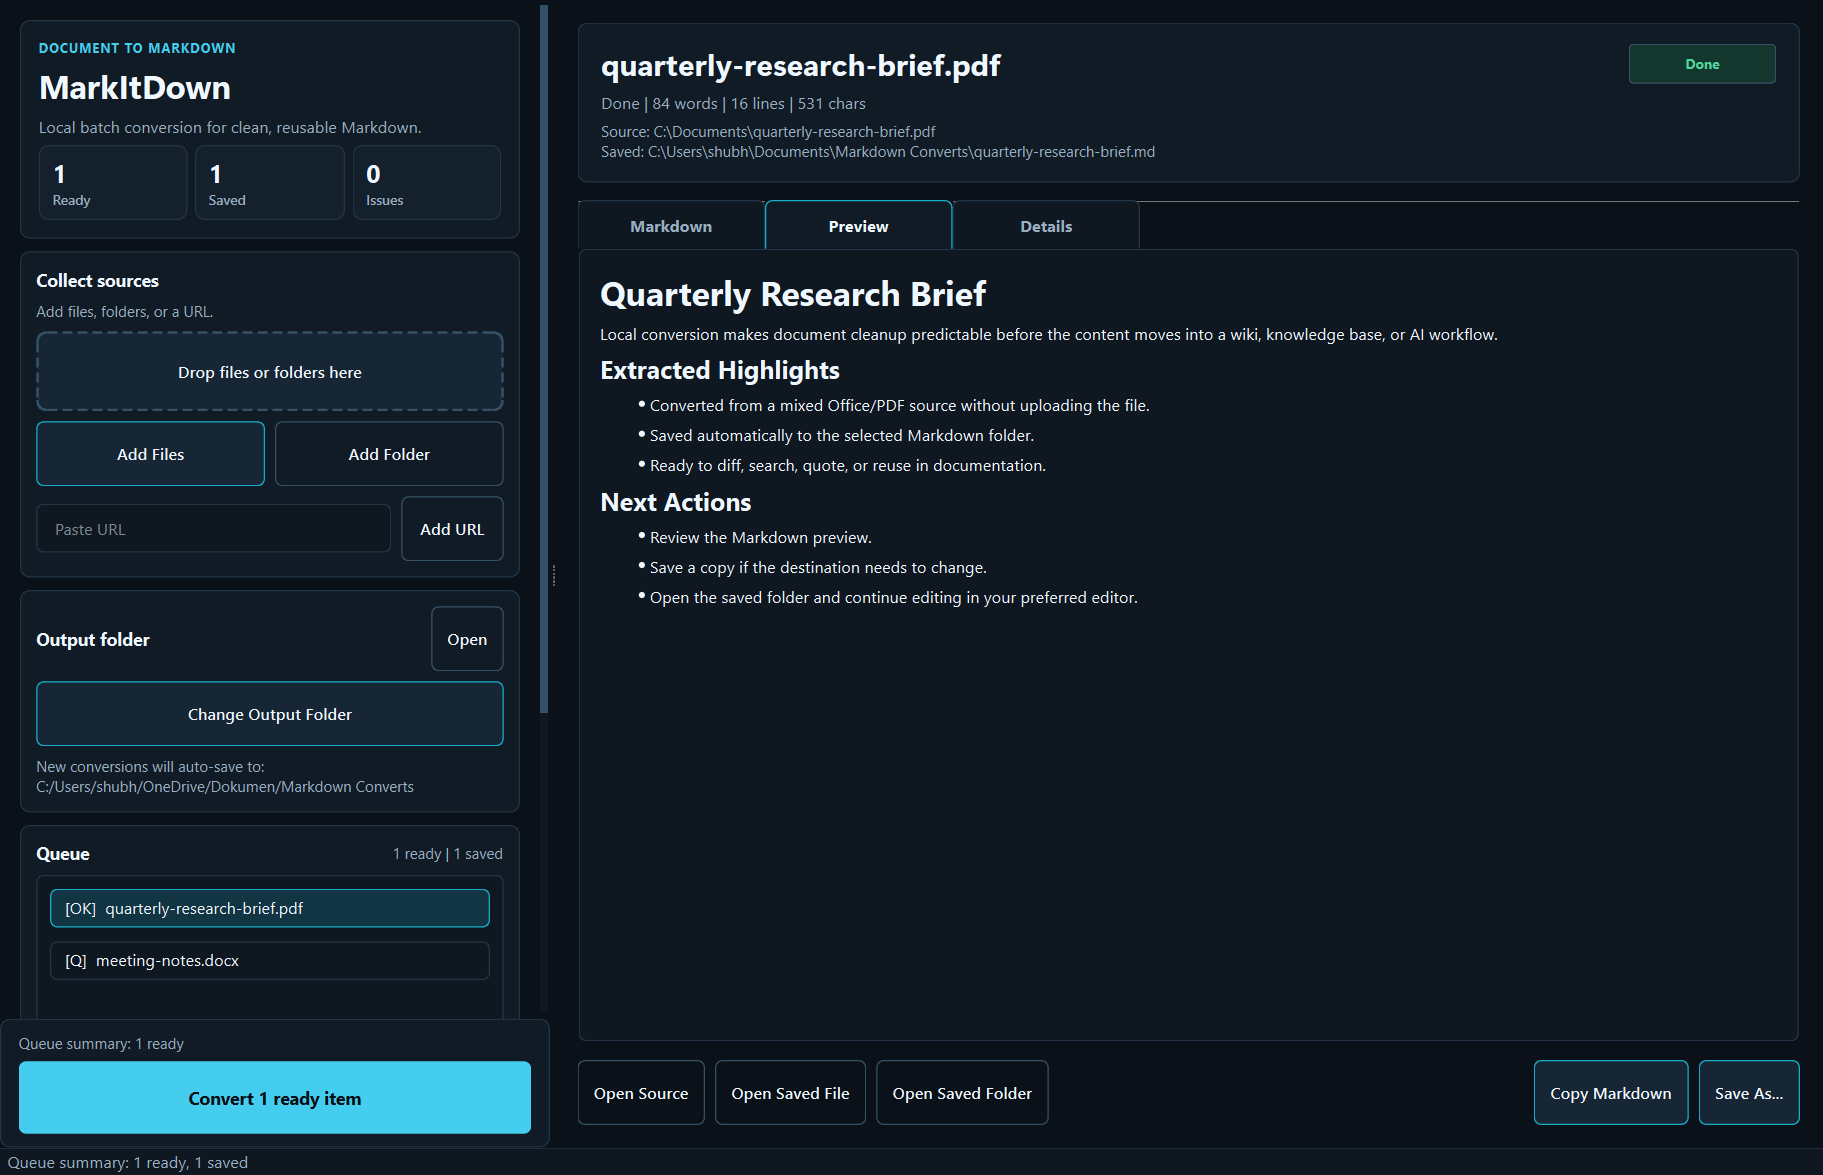
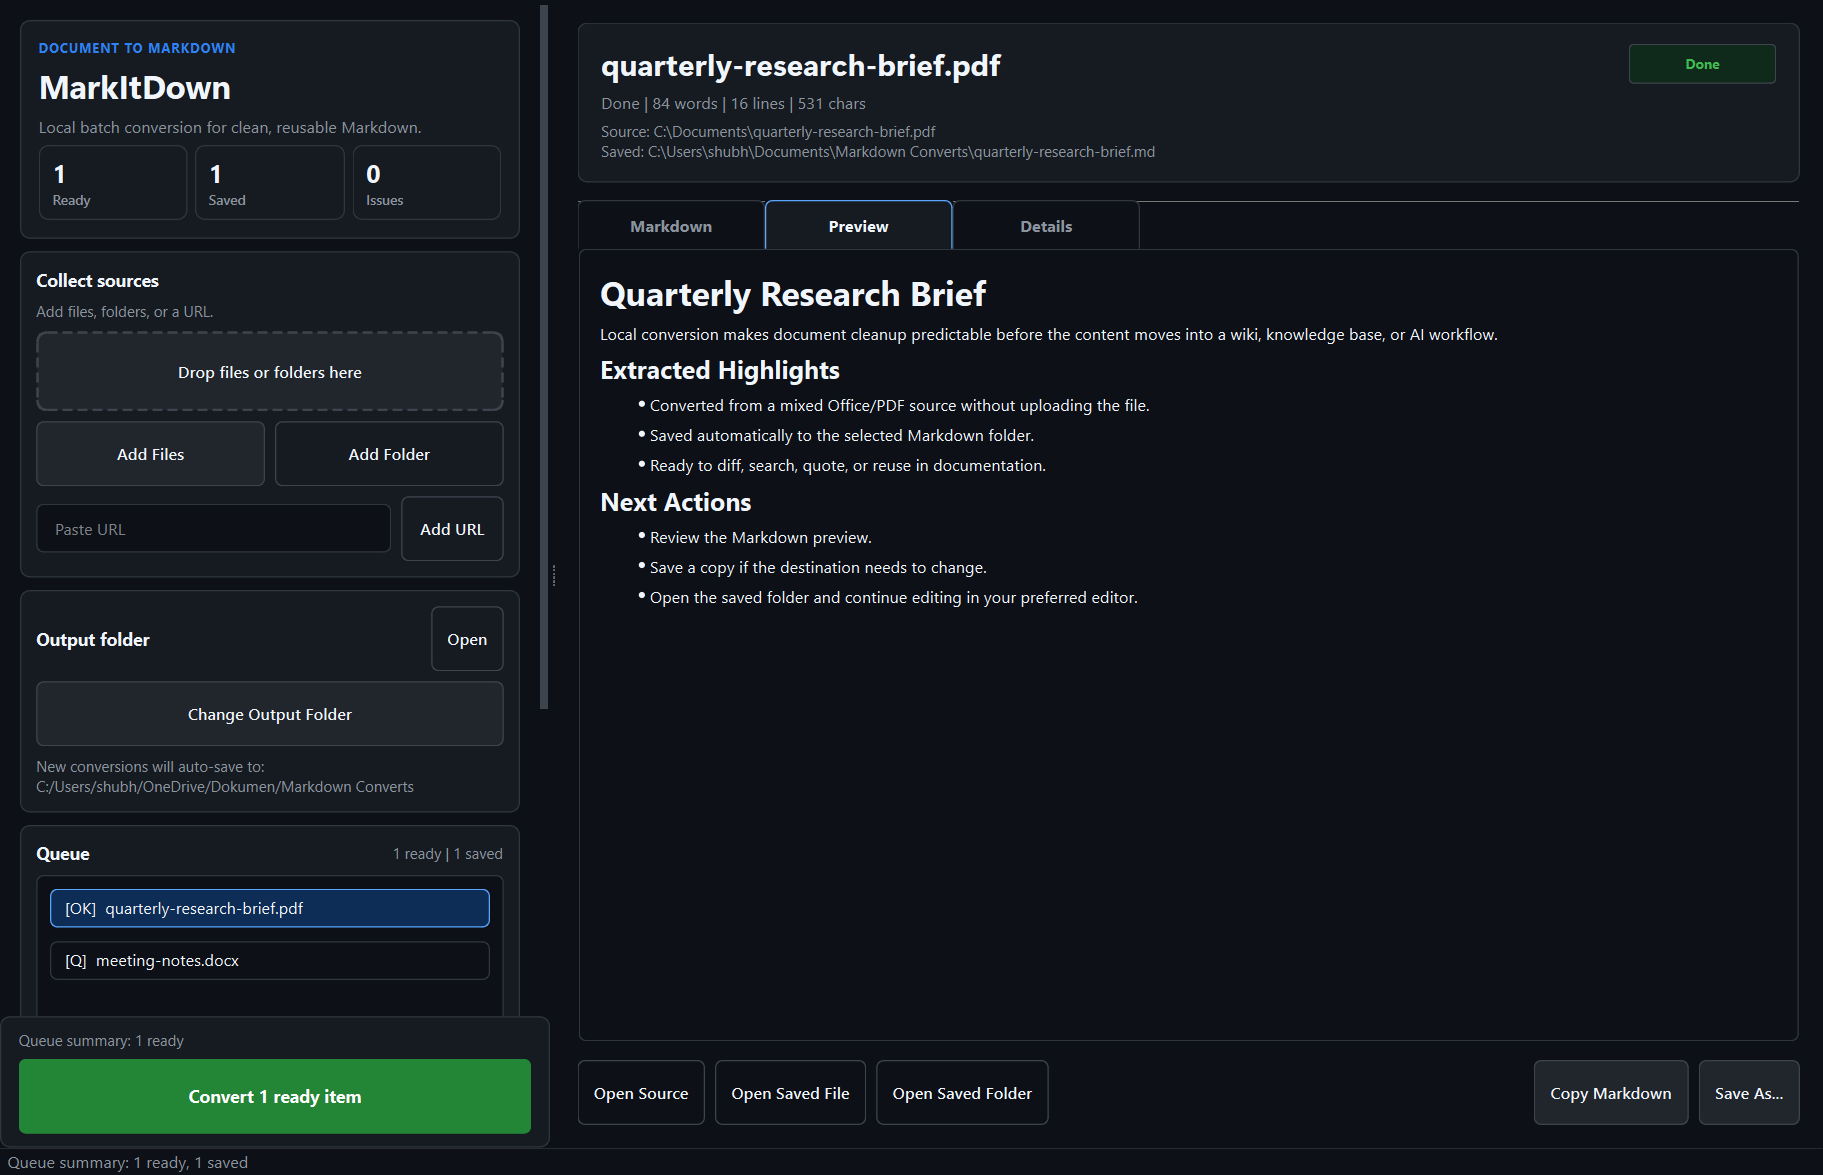
Use GitHub dark theme

diff --git a/markitdown_app.py b/markitdown_app.py
@@ -55,22 +55,24 @@ sys.excepthook = exception_hook
 
 
 DARK = {
-    "bg": "#0a1118",
-    "surface": "#0f1821",
-    "surface2": "#14202b",
-    "card": "#101b25",
-    "card2": "#162634",
-    "border": "#223445",
-    "border2": "#365066",
-    "accent": "#44cdee",
-    "accent2": "#16aeca",
-    "accent_soft": "#123544",
-    "text": "#eff7ff",
-    "muted": "#98aec2",
-    "success": "#4fd79a",
-    "warning": "#f3c56f",
-    "error": "#ff817d",
-    "btn_text": "#041016",
+    "bg": "#0d1117",
+    "surface": "#0d1117",
+    "surface2": "#161b22",
+    "card": "#161b22",
+    "card2": "#21262d",
+    "border": "#30363d",
+    "border2": "#3d444d",
+    "accent": "#2f81f7",
+    "accent2": "#58a6ff",
+    "accent_soft": "#0d2d56",
+    "primary": "#238636",
+    "primary2": "#2ea043",
+    "text": "#f0f6fc",
+    "muted": "#8b949e",
+    "success": "#3fb950",
+    "warning": "#d29922",
+    "error": "#f85149",
+    "btn_text": "#ffffff",
 }
 LIGHT = {
     "bg": "#eef4f8",
@@ -83,6 +85,8 @@ LIGHT = {
     "accent": "#0ea6bf",
     "accent2": "#0a8ca3",
     "accent_soft": "#d9f2f7",
+    "primary": "#1a7f37",
+    "primary2": "#2da44e",
     "text": "#10202d",
     "muted": "#64798b",
     "success": "#119b6c",
@@ -1138,19 +1142,20 @@ class MainWindow(QMainWindow):
             border-color: %(border)s;
         }
         QPushButton#primaryBtn {
-            background: %(accent)s;
-            border: none;
+            background: %(primary)s;
+            border: 1px solid %(primary)s;
             color: %(btn_text)s;
             font-size: 14px;
-            font-weight: 800;
+            font-weight: 700;
             padding: 12px 16px;
         }
         QPushButton#primaryBtn:hover {
-            background: %(accent2)s;
+            background: %(primary2)s;
+            border-color: %(primary2)s;
         }
         QPushButton#secondaryBtn {
             background: %(card2)s;
-            border-color: %(accent2)s;
+            border-color: %(border2)s;
         }
         QPushButton#ghostBtn {
             background: transparent;
@@ -1963,10 +1968,10 @@ class MainWindow(QMainWindow):
 
     def update_status_chip(self, label, status, text):
         color_map = {
-            "queued": (self.theme["accent_soft"], self.theme["accent"]),
-            "converting": (self.theme["accent_soft"], self.theme["warning"]),
-            "done": ("#14372d" if self._dark else "#dff7ee", self.theme["success"]),
-            "error": ("#3a1919" if self._dark else "#fde7e7", self.theme["error"]),
+            "queued": (self.theme["surface2"], self.theme["accent2"]),
+            "converting": ("#332600" if self._dark else "#fff8c5", self.theme["warning"]),
+            "done": ("#0f2a1a" if self._dark else "#dff7ee", self.theme["success"]),
+            "error": ("#3d1717" if self._dark else "#fde7e7", self.theme["error"]),
         }
         background, color = color_map.get(status, (self.theme["accent_soft"], self.theme["accent"]))
         label.setText(text)
